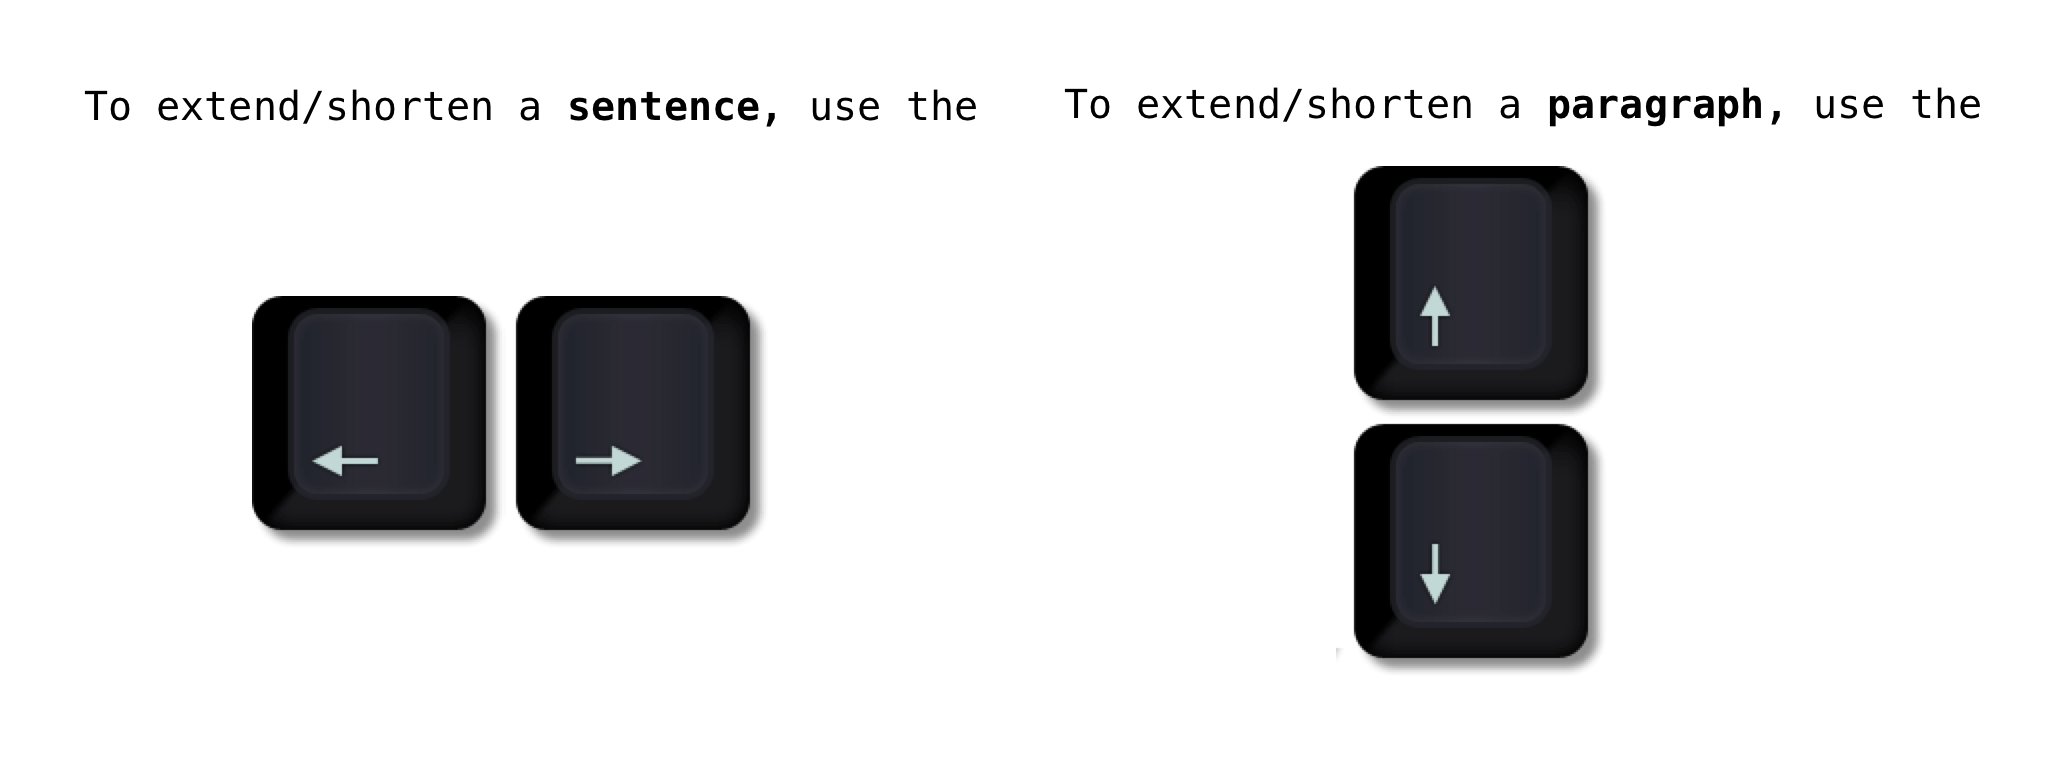
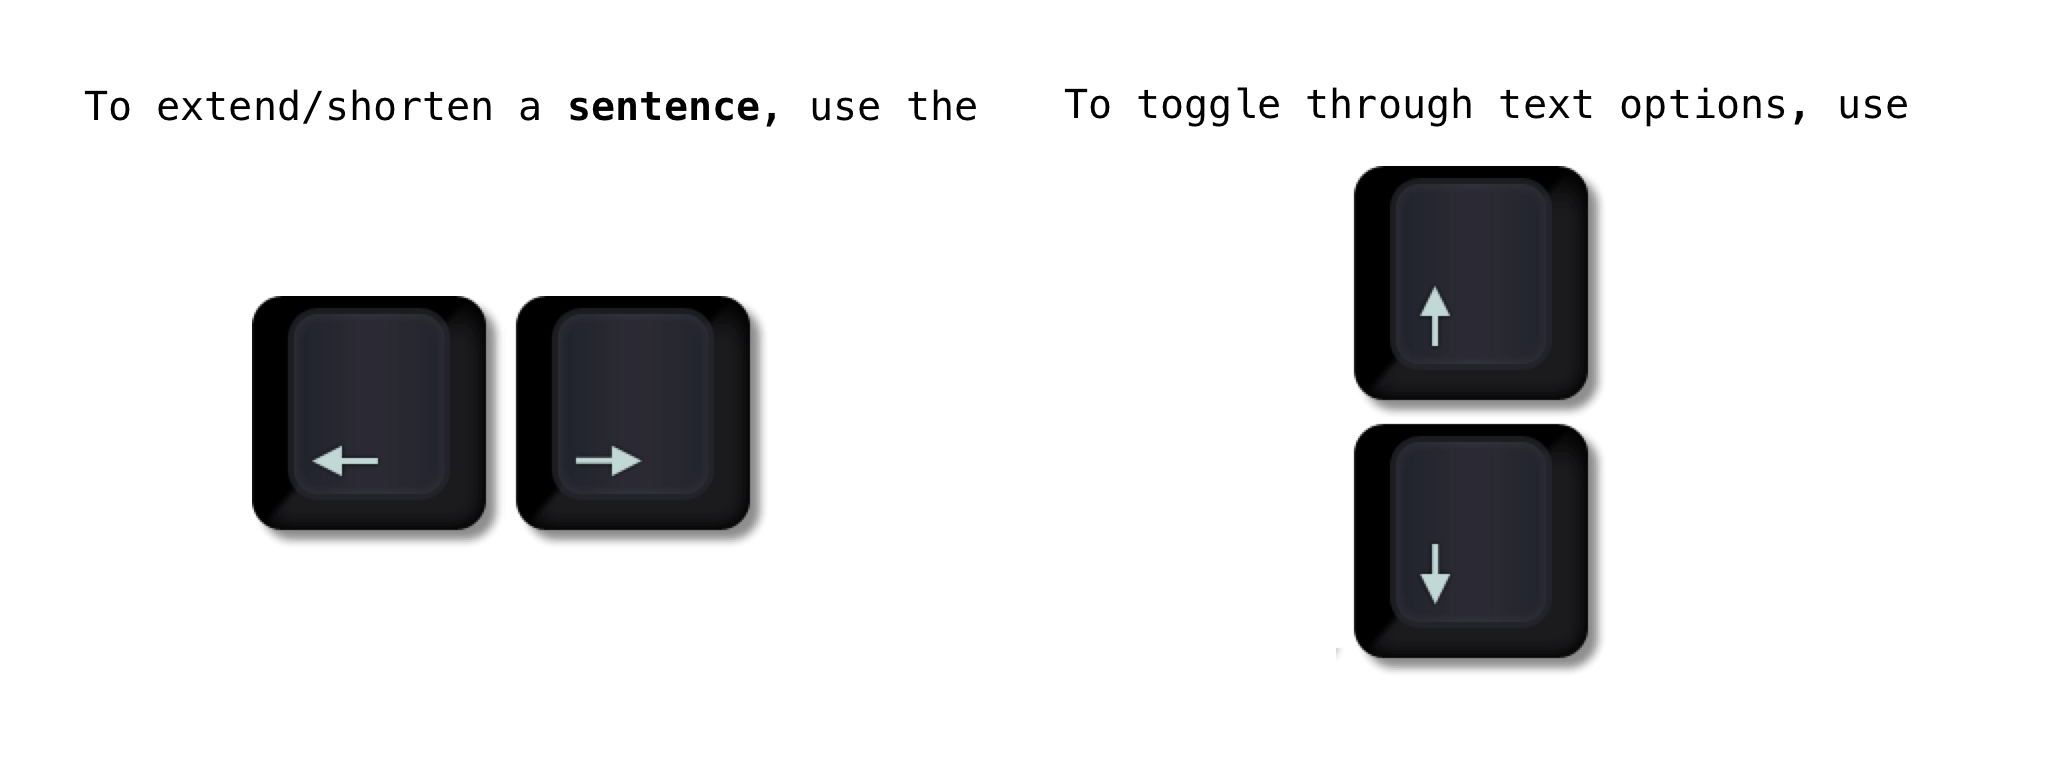
Updated Instructions Page

Changed region(s): [[0.5312, 0.1204, 0.9688, 0.1806]]

diff --git a/instructions.html b/instructions.html
@@ -45,9 +45,9 @@
                     <iframe width="854" height="480" src="https://www.youtube.com/embed/d_e_f3FwAFU" frameborder="0" allowfullscreen></iframe>
                     <p></p>
 
-                    <p>In this version of the experiment, we only support extending and shortening to sentences and paragrahs.</p>
+                    <p>In this version of the experiment, we only support extending and shortening of sentences.</p>
                     <img src="ins.png" alt="">
-                    <p>To extend a sentence, use the <b>right</b> arrow. To shorten it, use the <b>left</b> arrow. Likewise to extend or shorten a paragraph, use the <b>up</b> and <b>down</b> keys respectively.</p>
+                    <p>To extend a sentence, use the <b>right</b> arrow. To shorten it, use the <b>left</b> arrow.
 
                     <p>During the experiment, you'll be presented <b>with a text block of varying length to copy from one of the windows on the right side of your screen.</b> Your task will be to <b>copy the relevant text using the prescribed method to the text box on the left side of the screen.</b><p>
 
